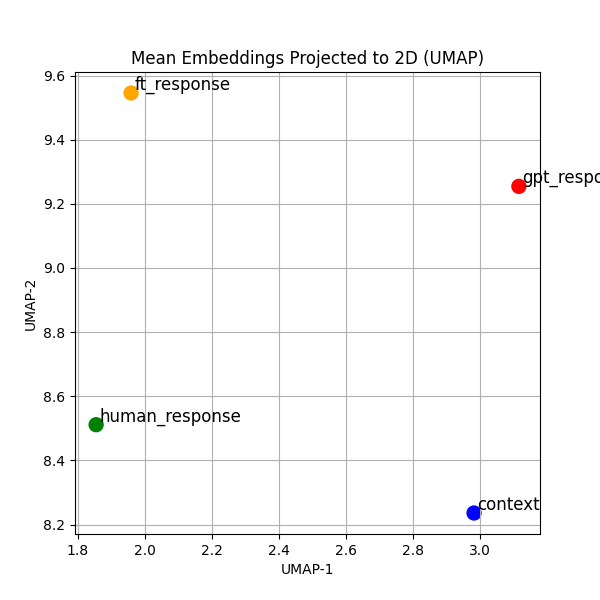
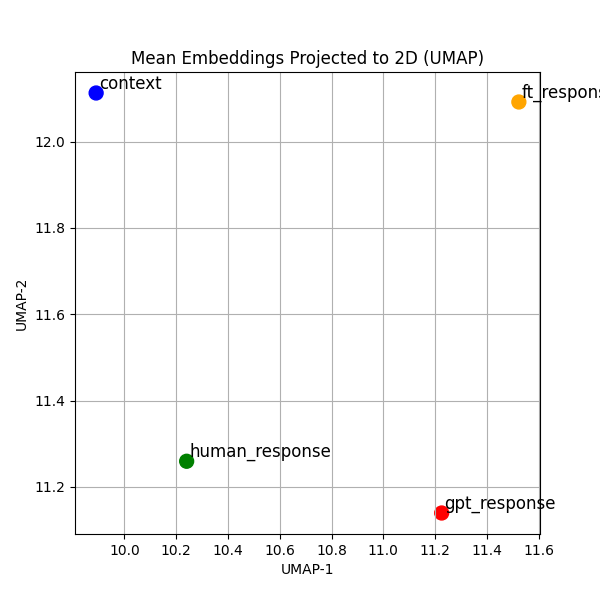
central tendency stats for cosine similarity

diff --git a/src/CosineSimilarities.py b/src/CosineSimilarities.py
@@ -23,6 +23,7 @@ from sklearn.decomposition import PCA
 import seaborn as sns
 import pandas as pd
 import umap
+from scipy import stats
 
 
 
@@ -342,7 +343,91 @@ def plot_topic_comparison(rowwise_sims, topics, output_path, filename):
         print(f"Topic comparison for '{pair}' saved to: {save_file}")
 
 
+from scipy import stats
 
+def calculate_similarity_stats(rowwise_sims, topics=None):
+    """
+    Calculate mean, SD, and 95% confidence intervals for cosine similarities.
+    
+    Args:
+        rowwise_sims (dict): dictionary with row-wise cosine similarities
+        topics (np.array): optional array of topics for per-topic statistics
+    
+    Returns:
+        tuple: (overall_stats_df, topic_stats_df) or (overall_stats_df, None)
+    """
+    
+    # Helper function to calculate stats
+    def compute_stats(data):
+        n = len(data)
+        mean = np.mean(data)
+        sd = np.std(data, ddof=1)
+        se = stats.sem(data)
+        ci = stats.t.interval(0.95, n-1, loc=mean, scale=se)
+        
+        return {
+            'n': n,
+            'mean': mean,
+            'sd': sd,
+            'ci_lower': ci[0],
+            'ci_upper': ci[1]
+        }
+    
+    # Overall statistics
+    overall_data = []
+    for name, sims in rowwise_sims.items():
+        stat_dict = compute_stats(sims)
+        stat_dict['pair'] = name
+        overall_data.append(stat_dict)
+    
+    overall_stats_df = pd.DataFrame(overall_data)
+    overall_stats_df = overall_stats_df[['pair', 'n', 'mean', 'sd', 'ci_lower', 'ci_upper']]
+    
+    # Per-topic statistics
+    if topics is not None:
+        topic_data = []
+        unique_topics = np.unique(topics[~pd.isna(topics)])
+        
+        for topic in unique_topics:
+            topic_mask = topics == topic
+            for name, sims in rowwise_sims.items():
+                topic_sims = sims[topic_mask]
+                if len(topic_sims) > 0:
+                    stat_dict = compute_stats(topic_sims)
+                    stat_dict['pair'] = name
+                    stat_dict['topic'] = topic
+                    topic_data.append(stat_dict)
+        
+        topic_stats_df = pd.DataFrame(topic_data)
+        topic_stats_df = topic_stats_df[['topic', 'pair', 'n', 'mean', 'sd', 'ci_lower', 'ci_upper']]
+        
+        return overall_stats_df, topic_stats_df
+    
+    return overall_stats_df, None
+
+
+def save_statistics(overall_stats, topic_stats, output_path, prefix):
+    """
+    Save statistics to CSV files.
+    
+    Args:
+        overall_stats (pd.DataFrame): overall statistics dataframe
+        topic_stats (pd.DataFrame): per-topic statistics dataframe (can be None)
+        output_path (str): folder where files should be saved
+        prefix (str): prefix for filename (e.g., 'Topic' or 'Human')
+    """
+    os.makedirs(output_path, exist_ok=True)
+    
+    # Save overall statistics
+    overall_file = os.path.join(output_path, f"{prefix}_overall_statistics.csv")
+    overall_stats.to_csv(overall_file, index=False)
+    print(f"Overall statistics saved to: {overall_file}")
+    
+    # Save per-topic statistics
+    if topic_stats is not None:
+        topic_file = os.path.join(output_path, f"{prefix}_topic_statistics.csv")
+        topic_stats.to_csv(topic_file, index=False)
+        print(f"Per-topic statistics saved to: {topic_file}")
 
 
 ''' Define Parameters '''
@@ -397,6 +482,12 @@ if __name__ == "__main__":
     # Topic comparison plots
     plot_topic_comparison(rowwise_sims, topics, output_path, filename="Topic_comparison_boxplot.png")
 
+    # Calculate and save statistics
+    print("\nCalculating statistics for on-topic analysis...")
+    overall_stats, topic_stats = calculate_similarity_stats(rowwise_sims, topics)
+    save_statistics(overall_stats, topic_stats, output_path, prefix="Topic")
+    print("\nOn-topic statistics summary:")
+    print(overall_stats)
 
 
     # --- Human-Likeness Analysis ---
@@ -421,5 +512,12 @@ if __name__ == "__main__":
     
     # Topic comparison plots
     plot_topic_comparison(rowwise_sims, topics, output_path, filename="Human_comparison_boxplot.png")
-    
-    print("\nAll plots generated successfully!")
+
+    # Calculate and save statistics
+    print("\nCalculating statistics for human-likeness analysis...")
+    overall_stats, topic_stats = calculate_similarity_stats(rowwise_sims, topics)
+    save_statistics(overall_stats, topic_stats, output_path, prefix="Human")
+    print("\nHuman-likeness statistics summary:")
+    print(overall_stats)
+
+    print("\nAll plots and statistics generated successfully!")
